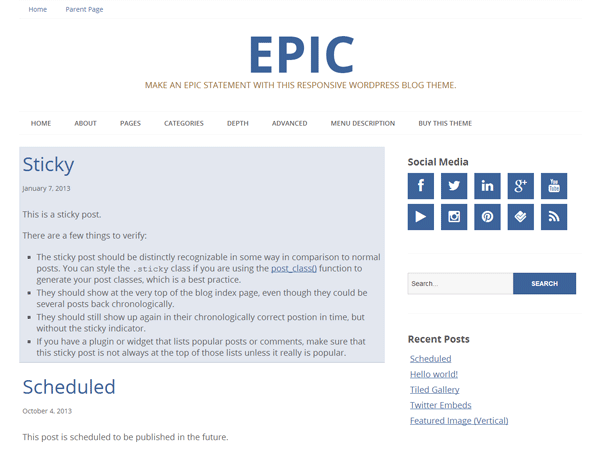
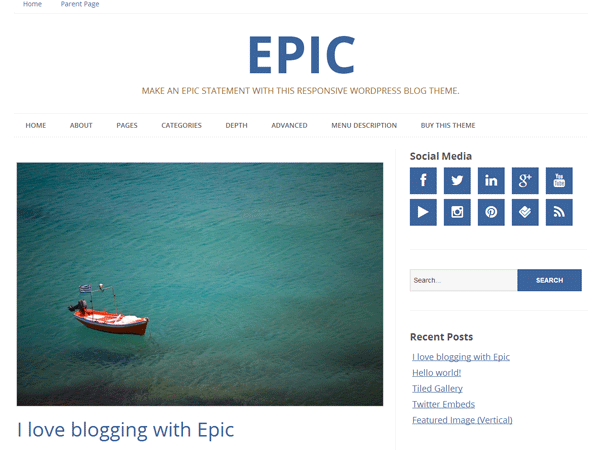
1.0.2
1.0.2
---
- Removed empty images folder from /includes
- Added attribution for menu icon image found in /images
- Fixed a bug where when permalinks were disabled the pagination
function was broken (SDS Core)
- Updated theme screenshot

1.0.1
---
- Changed archive template to display the_excerpt instead of the_content
- Removed text decoration from hovered links
- Adjusted slogan color (was color from pro) to gray on default theme
- Removed Epic "v2" from Epic class file (comment)
- Added border to left of sidebar
- Removed margin from top of sidebar
- Adjusted font weight of Heading 1's
- Added background color to footer widgets on default theme
- Adjusted line-height of main site title
- Added clear floats class to searchbox to ensure it appeared correctly
in widgets
- Fixed issue with responsive navigation where menu was not appearing
correctly when clicked
- Removed structure styling from all color scheme CSS files
- Removed borders from primary navigation on responsive view
- Updated to newest version of SDS core
- Fixed font size on allowed HTML on comments
- Fixed header call to action widget styleing on responsive view

diff --git a/style.css b/style.css
@@ -4,7 +4,7 @@
  * Description: Make an Epic statement with this responsive WordPress blog theme. The perfect combination of minimalism and bold design for your journal, photo stream or video blog.
  * Author: Slocum Design Studio
  * Author URI: http://slocumstudio.com
- * Version: 1.0
+ * Version: 1.0.2
  * License: GPL2+
  * License URI: http://www.gnu.org/licenses/gpl.html
  * Tags: blue, green, orange, pink, purple, red, white, light, two-columns, left-sidebar, right-sidebar, flexible-width, custom-colors, custom-menu, editor-style, featured-images, full-width-template, sticky-post, theme-options, threaded-comments, translation-ready
@@ -102,7 +102,11 @@ a {
 	color: #565656;
 }
 
-p{
+a:hover {
+	text-decoration: none;
+}
+
+p {
 	line-height: 1.5em;
 }
 
@@ -244,14 +248,14 @@ section.logo-box{
 	font-size: 18px;
 	font-weight: 400;
 	text-transform: uppercase;
-	color: #ae5f11;
+	color: #999;
 	line-height: 1em;
 	display: block;
 }
 
 header #title {
 	margin: 0 0 0.25em;
-	line-height: 1.5em;
+	line-height: 2.25em;
 }
 
 header #title.has-logo {
@@ -707,8 +711,9 @@ section.breadcrumb{
 article.content{
 	width: 65%;
 	float: left;
-	margin-right: 1%;
 	margin-bottom: 40px;
+	padding-right: 1.5%;
+	border-right: 1px solid #f2f2f2;
 }
 
 article.full-width-content {
@@ -718,6 +723,7 @@ article.full-width-content {
 article.content h1, article.full-width-content h1, h1.page-title{
 	margin: 0 0 0.25em;
 	font-size: 36px;
+	font-weight: 400;
 	line-height: 36px;
 }
 
@@ -1307,6 +1313,7 @@ ol.comment-list > li:nth-child(even) article.comment {
 	padding: 2%;
 	background: #e8e8e8;
 	border: 1px dashed #dbdbdb;
+	font-size: 14px;
 }
 
 a#cancel-comment-reply-link {
@@ -1320,7 +1327,7 @@ a#cancel-comment-reply-link {
 
 aside.sidebar{
 	width: 31%;
-	margin-top: 1em;
+	/*margin-top: 1em;*/
 	padding: 0 0 0 2%;
 	float: right;
 }
@@ -1348,6 +1355,8 @@ aside.sidebar{
 	 -------------  */
 .widget-title, .widgettitle {
 	margin: 0 0 0.5em;
+	font-size: 1.5em;
+	font-weight: 400;
 }
 
 .widget ul li, .footer-widget ul li {
@@ -1418,6 +1427,7 @@ section.footer-widget{
 	font-size: 16px;
 	width: 21%;
 	padding: 1%;
+	background: #f2f2f2;
 	display: inline-block;
 	vertical-align: top;
 	-webkit-transition: all .3s ease-in-out;
@@ -1536,6 +1546,7 @@ ul.footer-nav li ul {
 
 	header #title {
 		font-size: 1.35em;
+		line-height: 2em;
 	}
 
 	#searchform input {
@@ -1552,11 +1563,12 @@ ul.footer-nav li ul {
 
 	header #title {
 		font-size: 1.35em;
+		line-height: 2em;
 	}
 
 	article-content h1, h1.page-title, h1{
-		font-size: 28px !important;
-		line-height: 28px !important;
+		font-size: 28px;
+		line-height: 28px;
 	}
 }
 
@@ -1626,8 +1638,6 @@ ul.footer-nav li ul {
 		background: #4c4c4c;
 		position: relative;
 		z-index: 5;
-		border-bottom-left-radius: 0;
-		border-bottom-right-radius: 0;
 	}
 
 	/* ------------------
@@ -1665,8 +1675,12 @@ ul.footer-nav li ul {
 
 	nav .primary-nav {
 		height: auto;
+		margin-top: 0;
+		margin-bottom: 0;
 		float: none;
 		background: transparent;
+		border-top: none;
+		border-bottom: none;
 		-webkit-box-shadow: none;
 		box-shadow: none;
 		z-index: 2;
@@ -1717,6 +1731,7 @@ ul.footer-nav li ul {
 	nav .primary-nav.open {
 		padding-top: 36px;
 		overflow: hidden;
+		position: absolute;
 	}
 
 	nav.top-nav.open ul ul.sub-menu {
@@ -1817,6 +1832,7 @@ ul.footer-nav li ul {
 
 	header #title {
 		font-size: 1.35em;
+		line-height: 1.5em;
 	}
 
 	header .slogan {
@@ -1825,7 +1841,9 @@ ul.footer-nav li ul {
 
 	aside.nav-options {
 		width: 80%;
+		margin: 0 auto;
 		text-align: center;
+		float: none;
 	}
 
 	/* Search Form */
@@ -1838,8 +1856,10 @@ ul.footer-nav li ul {
 	article.content {
 		width: 100%;
 		margin: 0;
+		padding: 0;
 		border-top: 1px solid #ccc;
 		float: none;
+		border: none;
 	}
 
 	section.latest-post {
@@ -1899,7 +1919,6 @@ ul.footer-nav li ul {
 		margin: 1em 0 0;
 		padding: 0;
 		float: none;
-		border: none;
 	}
 
 

diff --git a/css/slocum-blue.css b/css/slocum-blue.css
@@ -35,14 +35,8 @@ nav ul.secondary-nav li a{
 /* =Primary Navigation
 -------------------------------------------------------------- */
 nav .primary-nav{
-	width: 100%;
-	display: inline-block;
-	clear: both;
 	border-top: 1px solid #f2f2f2;
 	border-bottom: 1px solid #f2f2f2;
-	margin-top: 20px;
-	margin-bottom: 20px;
-	position: relative;
 }
 
 nav .primary-nav li{

diff --git a/includes/theme-functions.php b/includes/theme-functions.php
@@ -97,7 +97,7 @@ if ( ! function_exists( 'sds_featured_image' ) ) {
 			</a>
 		</figure>
 	<?php
-		else :
+		elseif ( has_post_thumbnail() ) :
 	?>
 		<figure class="post-image <?php echo $featured_image_size . '-featured-image ' . $featured_image_size . '-post-image'; ?>">
 			<?php the_post_thumbnail( $featured_image_size ); ?>
@@ -388,7 +388,7 @@ if ( ! function_exists( 'sds_post_meta' ) ) {
 			<p>
 			<?php
 				printf( __( 'This entry was posted in %1$s and tagged in %2$s.', 'epic' ),
-				get_the_category_list( ', ', 'multiple' ),
+				get_the_category_list( ', ', 'single' ),
 				get_the_tag_list( '', ', ' ) );
 			?>
 			</p>
@@ -399,7 +399,7 @@ if ( ! function_exists( 'sds_post_meta' ) ) {
 			<p>
 			<?php
 				printf( __( 'This entry was posted in %1$s.', 'epic' ),
-				get_the_category_list( ', ', 'multiple' ) );
+				get_the_category_list( ', ', 'single' ) );
 			?>
 			</p>
 		<?php
@@ -428,8 +428,8 @@ if ( ! function_exists( 'sds_post_navigation' ) ) {
 
 		$pagination_links = paginate_links( array(
 			'base' => esc_url( get_pagenum_link() ) . '%_%', // %_% will be replaced with format below
-			'format' => ( ! $wp_query->is_search ) ? '?paged=%#%' : '&paged=%#%', // %#% will be replaced with page number
-			'current' => max( 1, get_query_var('paged') ), // Get whichever is the max out of 1 and the current page count
+			'format' => ( get_option( 'permalink_structure' ) && ! $wp_query->is_search ) ? '?paged=%#%' : '&paged=%#%', // %#% will be replaced with page number
+			'current' => max( 1, get_query_var( 'paged' ) ), // Get whichever is the max out of 1 and the current page count
 			'total' => $wp_query->max_num_pages, // Get total number of pages in current query
 			'next_text' => 'Next &#8594;',
 			'prev_text' => '&#8592; Previous',
@@ -633,9 +633,9 @@ function sds_widgets_init() {
 		'name'          => __( 'Primary Sidebar', 'epic' ),
 		'id'            => 'primary-sidebar',
 		'description'   => __( 'This widget area is the primary widget area.', 'epic' ),
-		'before_widget' => '<section id="primary-sidebar-%1$s" class="widget primary-sidebar %2$s">',
+		'before_widget' => '<section id="primary-sidebar-%1$s" class="widget primary-sidebar primary-sidebar-widget %2$s">',
 		'after_widget'  => '<section class="clear"></section></section>',
-		'before_title'  => '<h3 class="widgettitle">',
+		'before_title'  => '<h3 class="widgettitle widget-title primary-sidebar-widget-title">',
 		'after_title'   => '</h3>',
 	) );
 
@@ -644,7 +644,7 @@ function sds_widgets_init() {
 		'name'          => __( 'Front Page Slider', 'epic' ),
 		'id'            => 'front-page-slider-sidebar',
 		'description'   => __( '*This widget area is only displayed if a Front Page is selected via Settings > Reading in the Dashboard. Specifically formatted for Soliloquy or SlideDeck sliders.* This widget area is displayed above the content on the Front Page.', 'epic' ),
-		'before_widget' => '<section id="front-page-slider-%1$s" class="front-page-slider slider %2$s">',
+		'before_widget' => '<section id="front-page-slider-%1$s" class="widget front-page-slider front-page-slider-widget slider %2$s">',
 		'after_widget'  => '</section>',
 		'before_title'  => '<h3 class="widgettitle widget-title front-page-slider-title">',
 		'after_title'   => '</h3>'
@@ -655,7 +655,7 @@ function sds_widgets_init() {
 		'name'          => __( 'Front Page', 'epic' ),
 		'id'            => 'front-page-sidebar',
 		'description'   => __( '*This widget area is only displayed if a Front Page is selected via Settings > Reading in the Dashboard.* This widget area is displayed below the Front Page Slider on the Front Page and will replace the Front Page content.', 'epic' ),
-		'before_widget' => '<section id="front-page-%1$s" class="front-page %2$s">',
+		'before_widget' => '<section id="front-page-%1$s" class="widget front-page front-page-sidebar %2$s">',
 		'after_widget'  => '</section>',
 		'before_title'  => '<h3 class="widgettitle widget-title front-page-title">',
 		'after_title'   => '</h3>'
@@ -668,7 +668,7 @@ function sds_widgets_init() {
 		'description'   => __( 'This widget area is used to display a call to action in the header', 'epic' ),
 		'before_widget' => '<section id="header-call-to-action-%1$s" class="widget header-call-to-action-widget %2$s">',
 		'after_widget'  => '</section>',
-		'before_title'  => '<h3 class="widgettitle">',
+		'before_title'  => '<h3 class="widgettitle widget-title header-call-to-action-widget-title">',
 		'after_title'   => '</h3>',
 	) );
 
@@ -677,7 +677,7 @@ function sds_widgets_init() {
 		'name'          => __( 'After Posts', 'epic' ),
 		'id'            => 'after-posts-sidebar',
 		'description'   => __( 'This widget area is displayed below the content on single posts only.', 'epic' ),
-		'before_widget' => '<section id="after-posts-%1$s" class="after-posts after-posts-widget %2$s">',
+		'before_widget' => '<section id="after-posts-%1$s" class="widget after-posts after-posts-widget %2$s">',
 		'after_widget'  => '</section>',
 		'before_title'  => '<h3 class="widgettitle widget-title after-posts-title">',
 		'after_title'   => '</h3>'
@@ -688,7 +688,7 @@ function sds_widgets_init() {
 		'name'          => __( 'Footer', 'epic' ),
 		'id'            => 'footer-sidebar',
 		'description'   => __( 'This widget area is displayed in the footer of all pages.', 'epic' ),
-		'before_widget' => '<section id="footer-widget-%1$s" class="footer-widget %2$s">',
+		'before_widget' => '<section id="footer-widget-%1$s" class="widget footer-widget %2$s">',
 		'after_widget'  => '</section>',
 		'before_title'  => '<h3 class="widgettitle widget-title footer-widget-title">',
 		'after_title'   => '</h3>'
@@ -699,9 +699,9 @@ function sds_widgets_init() {
 		'name'          => __( 'Copyright Area', 'epic' ),
 		'id'            => 'copyright-area-sidebar',
 		'description'   => __( 'This widget area is designed for small text blurbs or disclaimers at the bottom of the website.', 'epic' ),
-		'before_widget' => '<section id="copyright-area-widget-%1$s" class="widget copyright-area-widget %2$s">',
+		'before_widget' => '<section id="copyright-area-widget-%1$s" class="widget copyright-area copyright-area-widget %2$s">',
 		'after_widget'  => '</section>',
-		'before_title'  => '<h3 class="widgettitle">',
+		'before_title'  => '<h3 class="widgettitle widget-title copyright-area-widget-title">',
 		'after_title'   => '</h3>',
 	) );
 }

diff --git a/searchform.php b/searchform.php
@@ -1,4 +1,4 @@
-<form role="search" method="get" id="searchform" action="<?php echo esc_url( home_url( '/' ) ); ?>">
+<form class="cf" role="search" method="get" id="searchform" action="<?php echo esc_url( home_url( '/' ) ); ?>">
     <section>
         <input type="text" value="<?php echo get_search_query(); ?>" name="s" id="s" placeholder="<?php esc_attr_e( 'Search...', 'epic' ); ?>" />
         <input type="submit" id="searchsubmit" class="submit" value="<?php esc_attr_e( 'Search', 'epic' ); ?>" />

diff --git a/includes/Epic.php b/includes/Epic.php
@@ -1,9 +1,9 @@
 <?php
 /**
- * This class manages all functionality with our Epic v2 theme.
+ * This class manages all functionality with our Epic theme.
  */
 class Epic {
-	const EPIC_VERSION = '1.0';
+	const EPIC_VERSION = '1.0.2';
 
 	private static $instance; // Keep track of the instance
 

diff --git a/loop-archive.php b/loop-archive.php
@@ -24,7 +24,9 @@
 			</p>
 		</section>
 
-		<?php the_content( __( 'Continue Reading', 'epic' ) ); ?>
+		<?php the_excerpt(); ?>
+
+		<a href="<?php the_permalink(); ?>" class="more-link"><?php _e( 'Continue Reading', 'epic' ); ?></a>
 	</section>
 <?php
 		endwhile;
